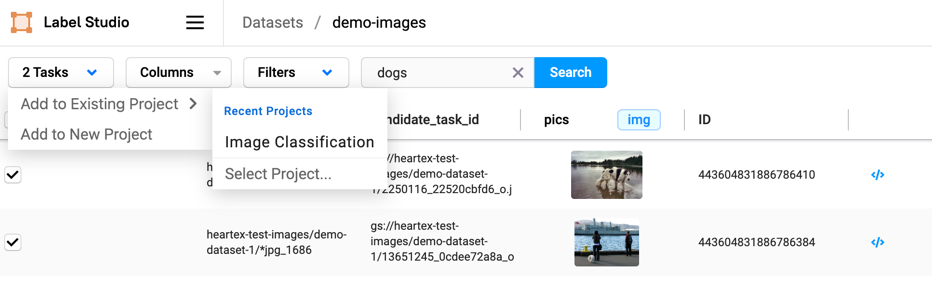
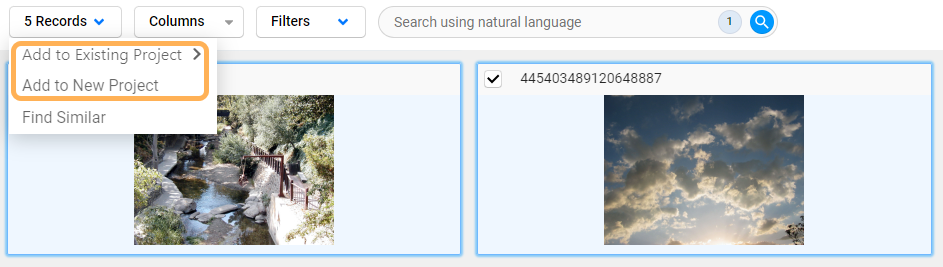
docs: DOC-124: Data Discovery docs (#5146)
* docs: DOC-124: Data Discovery docs

* Aligning text in table headers for overview page

* Updated contact information for customers to get beta access

* Updated short title in search page

* Changed item to record in a few places

diff --git a/docs/themes/v2/source/css/styles.css b/docs/themes/v2/source/css/styles.css
@@ -1061,6 +1061,7 @@ main {
   font-size: 0.9em;
   color: var(--color-gray-900);
   padding: 0.6em;
+  text-align: left;
 }
 
 .content-markdown table tbody tr:nth-child(even) {

diff --git a/docs/source/guide/dataset_search.md b/docs/source/guide/dataset_search.md
@@ -1,24 +1,104 @@
 ---
-title: Semantic search with datasets
-short: Semantic search
+title: Use Data Discovery search to refine datasets for labeling - Beta 🧪
+short: Search and filter datasets
 tier: enterprise
+type: guide
 order: 0
-order_enterprise: 215
-meta_title: Semantic search with datasets
-meta_description: Use semantic search to refine your datasets. 
+order_enterprise: 210
+meta_title: Data Discovery search and filtering in Label Studio 
+meta_description: Use filters, natural language search, and similarity search to refine your datasets. 
 date: 2023-08-23 12:18:50
-hide_sidebar: true
+section: "Data Discovery"
 ---
 
-Once your dataset is created, you can use an AI-powered semantic search to filter your data. This allows you to easily refine and categorize your data for a more efficient labeling experience. 
+Once your dataset is created, you will want to add records to projects as tasks. For some projects, this might be the complete dataset. But in most cases you will likely want to select a subset of data based on certain criteria. 
 
-Search using natural language strings. Enter your search into the field above the the dataset. 
+If your dataset consists of several thousand unstructured items, then manually sorting, categorizing, and structuring that data can take a significant amount of time and effort. Instead, you can use Label Studio's AI-powered search capabilities to refine your datasets. 
 
-![Animated gif showing search in action](/images/data_discovery/semantic_search.gif)
+Label studio provides several search mechanisms:
 
-## Add data to a project
+* **Natural language searching** - Also known as "semantic searching." Use keywords and phrases to explore your data. 
+* **Similarity searching** - Select one or more records and then sort the data based on semantic similarity to your selections. 
+* **Combined searches** - Combine similarity searching and natural language searching. 
+* **Filtering** - Reduce your dataset to only show records that have a certain threshold of similarity to your searches.
 
-Select the data you want to annotate and then click **Tasks**. From here you can select a project or you can create a new project. The selected data is added to the project as new individual tasks.   
+## How searches work
 
-![Screenshot of the button to add tasks to project](/images/data_discovery/add_tasks.png)
+### Embeddings 
+
+When you sync a dataset, Label Studio generates an embedding for each item (or "record"). An embedding is a way of converting complex, often high-dimensional data (like text or images) into a simpler, lower-dimensional form. Our embeddings are generated using an off-the-shelf CLIP model. 
+
+For example, say you have a library of books and you want to catalog and sort them. Now imagine how helpful it would be to have a summary of each book written out on a small card, capturing its most important themes or ideas. These cards represent the books in a more manageable way, just like embeddings represent complex data in a simpler format. 
+
+Embeddings also convey meaning in ways that things like keywords and metadata do not. For example, you might want to search your library for "healthy eating." A traditional search might just look for books with those exact words in the title or text. But an AI-powered semantic search using embeddings would understand the concept of *healthy eating* and find books related to nutrition, dieting, healthy recipes, and more, even if they don't use the exact words "healthy eating."
+
+
+### Reference embeddings
+
+When you perform a search, we generate a single "reference embedding" representing your search query. 
+
+If your search consists of one natural language query or one record (in a similarity search), then generating the reference embedding is straightforward. 
+
+But when you start performing more complex searches with multiple search terms and records, we need to combine your queries to create the reference embedding. 
+
+If you are combining multiple queries in a natural language search, we generate embeddings for each search term and then average them to create a singular reference embedding. Each query is afforded equal weight when calculating the average for the reference embedding. Meaning, for example, that we do not take the order in which you entered your queries into consideration.  
+
+Likewise, if you select multiple records when performing a similarity search, we average the embeddings of each record to create the reference embedding.  
+
+If you combine similarity searching and natural language search terms, the natural language search reference embedding is created in one operation and the similarity search reference embedding is created in another operation. Then, in a third operation, the two reference embeddings are combined. By doing this, we can calculate a lower weight for the similarity search portion. This is because natural language queries tend to be more accurate descriptions of what you're trying to find. 
+
+
+
+### Calculating similarity
+
+In its raw form, an embedding is essentially multiple floating points within an array. This means that we can mathematically calculate similarity and assign a numerical **similarity score** to each record. The similarity score is the distance between those floating points. 
+
+First, we take your reference embedding, and then we compare it to the embeddings generated from each record in the dataset. From there we calculate the distance between points within their arrays, and the result is the similarity score. 
+
+The closer the similarity score is to `0`, the less distance between points, and the more confident we are that the record is a match to your search criteria. The higher the score, the more distance between points, and similarity diminishes. 
+
+You can use this principle to filter your datasets by a similarity threshold (see [Search results and refining by similarity](#Search-results-and-refining-by-similarity) below).
+
+
+
+## Natural language searching
+
+You are probably already very familiar with natural language searching (also known as "semantic" searching). Natural language search is simply searching with text queries like keywords (e.g. "plants") or phrases (e.g. "which plants grow the fastest"). 
+
+To perform a natural language search, enter your query into the search field provided. You can keep adding search queries to refine your search. 
+
+
+![Animated gif of semantic search](/images/data_discovery/semantic_search_flower.gif)
+
+
+!!! note
+    Searches are sticky and cumulative. For example, when you execute two searches in a row, both queries are used to [calculate similarity](#Calculating-similarity). To start over, you must manually clear your previous search. 
+    ![Screenshot of how to remove a query](/images/data_discovery/search_remove.png)
+
+
+## Similarity searches
+
+To perform a similarity search, select one or more records. From the **Actions** menu, select **Find similar**. 
+
+![Animated gif similarity search](/images/data_discovery/similarity_search_lake.gif)
+
+You can continue to refine your similarity search by adding and removing records from the query. 
+
+To adjust your search, simply select or deselect records and click **Find similar** again. 
+
+## Search results and refining by similarity
+
+It is important to note that when you perform a search against a dataset, you are not applying a filter. The search does not return a subset of "matches." Instead, it returns your entire dataset sorted by similarity. 
+
+To reduce your dataset to records that meet a certain threshold of similarity, click the search field to view your search criteria and a similarity score filter. 
+
+To set the similarity threshold, you can use the slider or enter a value into the field provided. 
+
+![Animated gif similarity score slide](/images/data_discovery/similarity_score_filter.gif)
+
+### Create labeling tasks
+
+Once you have refined your dataset, you can create tasks by [exporting dataset records to a project](dataset_manage#Create-project-tasks-from-a-dataset).   
+
+
 

diff --git a/docs/source/guide/dataset_overview.md b/docs/source/guide/dataset_overview.md
@@ -1,0 +1,69 @@
+---
+title: Data Discovery overview - Beta 🧪
+short: Overview
+tier: enterprise
+type: guide
+order: 0
+order_enterprise: 201
+meta_title: Data Discovery overview and features
+meta_description: An overview of Label Studio's Data Discovery functionality, including features and limitations. 
+section: "Data Discovery"
+date: 2023-11-10 15:23:18
+---
+
+> Streamline your data preparation process using Data Discovery in Label Studio. 
+
+!!! note Beta release
+    This feature is currently in beta. To enable Data Discovery, contact your customer success manager or email [cs@humansignal.com](mailto:cs@humansignal.com). 
+
+In machine learning, the quality and relevance of the data used for training directly affects model performance. However, sifting through extensive unstructured datasets to find relevant items can be cumbersome and time-consuming. 
+
+Label Studio's Data Discovery simplifies this by allowing users to perform targeted, [AI-powered searches](dataset_search) within their data. This is incredibly beneficial for projects where specific data subsets are required for training specialized models.
+
+For example, imagine a scenario in a retail context where a company wants to develop an AI model to recognize and categorize various products in their inventory. Using Label Studio's Data Discovery functionality, they can quickly gather images of specific product types from their extensive database, significantly reducing the time and effort needed for manual data labeling and sorting. This efficiency not only speeds up the model development process, but also enhances the model's accuracy by ensuring a well-curated training dataset.
+
+This targeted approach to data gathering not only saves valuable time but also contributes to the development of more accurate and reliable machine learning models.
+
+!!! info Tip
+    You can use the label distribution charts on a project's [dashboard](dashboards) to identify areas within the project that are underrepresented. You can then use Data Discovery to identify the appropriate dataset records to add to your project for more uniform coverage.
+
+
+#### Process overview
+
+1. Create a dataset by connecting your cloud environment to Label Studio and importing your data. See [Create datasets](dataset_create). 
+2. Use our AI-powered search to sort and filter the dataset. See [Search and filter datasets](dataset_search). 
+3. Select the data you want to use and add it to a labeling project. See [Manage datasets](dataset_manage). 
+4. Start labeling data! 
+
+## Terminology
+
+| Term | Description |
+| --- | --- |
+| **Dataset** | In general terms, a dataset is a collection of data. <br>When referred to here, it means a collection of data created using the Datasets page in Label Studio. |
+| **Data discovery** | In general terms, data discovery is the process of gathering, refining, and classifying data. A data discovery tool helps teams find relevant data for labeling. This covers a full spectrum of tasks, from finding data to include in your initial ground truth dataset to finding very specific data points to remedy underperforming classes or address edge cases.  |
+| **Natural language search** <br><br>**Semantic search**| These two terms are used interchangeably and, in simple terms, mean using text as the search query.|
+| **Similarity search** | Similarity search is when you select one or more records and then sort the dataset by similarity to your selections. |
+| **Record** | An item in a dataset. Each record can be added to a Label Studio project as a task. |
+
+
+## Features, requirements, and constraints
+
+<div class="noheader rowheader">
+
+| Feature | Support |
+| --- | --- |
+| **Supported file types** | .txt <br><br>.png <br><br>.jpg/.jpeg |
+| **Indexable/searchable data** | Image and text |
+| **Supported storage for import** | Google Cloud storage <br><br>AWS S3 <br><br>Azure blob storage |
+| **Number of storage sources per dataset** | One |
+| **Maximum number of records per dataset** | 1 million |
+| **Number of datasets per org** | 10 |
+| **Supported search types** | Natural language search <br><br>Similarity search |
+| **Supported filter types** | Similarity score |
+| **Required permissions** | **Owners and Administrators** -- Can create datasets and have full administrative access to any existing datasets <br><br>**Managers** -- Must be invited to a dataset. Once invited, they can view the dataset and export records as project tasks. Managers cannot create new datasets or perform administrative tasks on existing ones. <br><br>**Reviewers and Annotators** -- No access to datasets and cannot be added as dataset members.  |
+| **Enterprise vs. Open Source** | Label Studio Enterprise only |
+
+</div>
+
+
+

diff --git a/docs/source/guide/dataset_manage.md b/docs/source/guide/dataset_manage.md
@@ -1,13 +1,14 @@
 ---
-title: Manage datasets
+title: Manage datasets for Data Discovery - Beta 🧪
 short: Manage datasets
 tier: enterprise
+type: guide
 order: 0
-order_enterprise: 210
+order_enterprise: 215
 meta_title: Manage a dataset in Label Studio Enterprise
 meta_description: How to manage your datasets in Label Studio Enterprise 
 date: 2023-08-23 12:07:13
-hide_sidebar: true
+section: "Data Discovery"
 ---
 
 
@@ -17,18 +18,42 @@ From the Datasets page, click the overflow menu next to dataset and select **Set
 
 ![Overflow menu next to a dataset](/images/data_discovery/dataset_settings.png)
 
-From here you can do the following:
 
-- Edit the dataset name and description.
-- Edit the storage settings. If you edit the storage settings, you will need to re-enter your cloud credentials. For information about the storage setting fields, see their descriptions in [Create a dataset](dataset_create).
+| Settings page &nbsp;&nbsp;&nbsp;&nbsp;&nbsp;&nbsp;&nbsp;&nbsp;&nbsp;&nbsp;&nbsp;&nbsp;| Description |
+| ---------------- | --- |
+| **General**             | Edit the dataset name and description. |
+| **Storage** | Review the storage settings. For information about the storage setting fields, see their descriptions in [Create a dataset](dataset_create). |
+| **Members** | Manage dataset members. See [Add or remove members](#Add-or-remove-members).  |
+
+
 
 ## Create project tasks from a dataset 
 
-See [Semantic Search](dataset_search). 
+Select the records you want to annotate and click ***n* Records**. From here you can select a project or you can create a new project. 
+
+The selected records are added to the project as individual tasks. 
+
+![Screenshot of the button to add tasks to project](/images/data_discovery/add_tasks.png)
+
+## Add or remove members
+
+From here you can add and remove members. Only users in the Manager role can be added or removed from a dataset. Reviewers and Annotators cannot be dataset members. 
+
+By default, all Owner or Administrator roles are dataset members and cannot be removed. 
+
+| Permission | Roles&nbsp;&nbsp;&nbsp;&nbsp;&nbsp;&nbsp;&nbsp;&nbsp;&nbsp;&nbsp;&nbsp;&nbsp;&nbsp;&nbsp;&nbsp;&nbsp;&nbsp;&nbsp;&nbsp;&nbsp;&nbsp;&nbsp;&nbsp;&nbsp;&nbsp;&nbsp;&nbsp;&nbsp;&nbsp;&nbsp;&nbsp;&nbsp;&nbsp;&nbsp;&nbsp;&nbsp;&nbsp;&nbsp;&nbsp;&nbsp;&nbsp;&nbsp;&nbsp;&nbsp;&nbsp;&nbsp;&nbsp;&nbsp; |
+| ---------------- | --- |
+| **Create a dataset** | Owner <br><br>Administrator |
+| **Delete a dataset** | Owner <br><br>Administrator |
+| **View and update dataset settings** | Owner <br><br>Administrator |
+| **View and search dataset** | Owner <br><br>Administrator <br><br>Manager |
+| **Export records to projects** | Owner <br><br>Administrator <br><br>Manager |
+
+
 
 
 ## Delete a dataset
 
-From the Datasets page, select the overflow menu next to dataset and select **Delete**.  
+From the Datasets page, select the overflow menu next to dataset and select **Delete**. A confirmation prompt appears. 
 
 Deleting a dataset does not affect any project tasks you created using the dataset.
